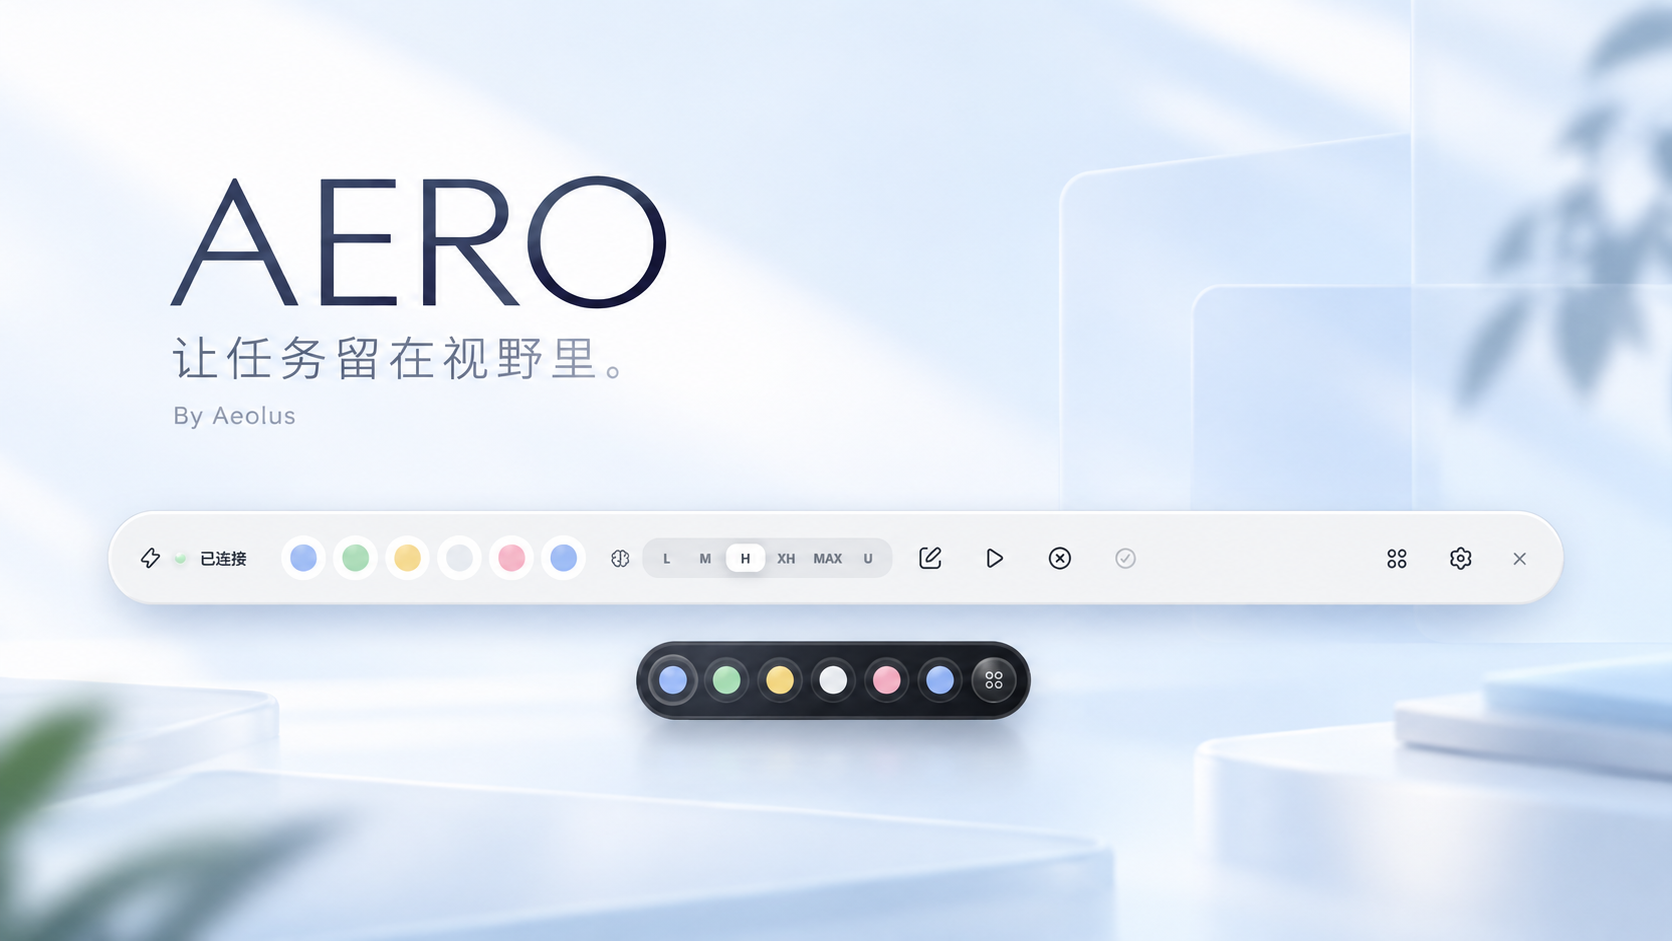
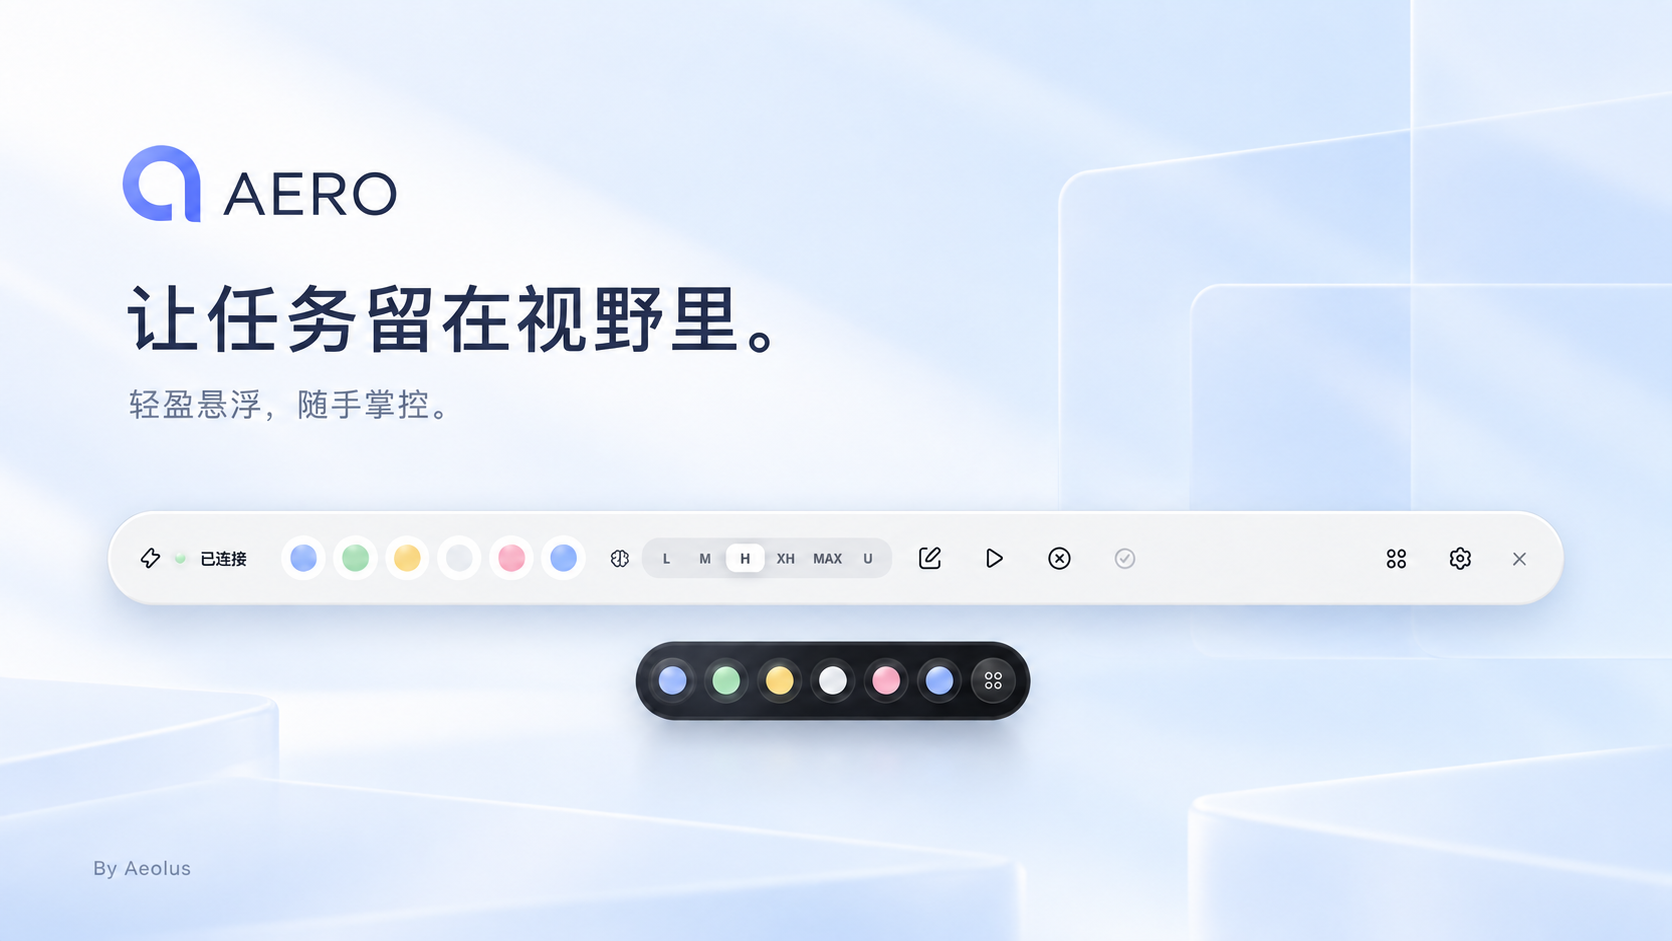
docs: unify Aero campaign identity and explain voice setup

diff --git a/docs/promo-art-direction.md b/docs/promo-art-direction.md
@@ -2,14 +2,16 @@
 
 生成方式：内置 image_gen。宣传图不是实机截图，不替代产品功能说明。图片文案与构图方向如下，供后续品牌素材延展。
 
+统一规范：三张图使用同一主视觉作为样式参考，冷白 / 冰蓝背景、深蓝正文、左上 Logo 与 AERO 字标、左下署名；标题采用一致的中等字重无衬线风格（提示词指定 Segoe UI / Microsoft YaHei UI），副标题与正文保持相同层级。生成图片是栅格视觉，不包含可核验的字体文件。Logo 沿用 `public/aero-logo.svg` 的圆环与右侧下垂笔画，不重新设计；颜色使用 Air 蓝。图像编辑时以既有托盘标志轮廓为参考，并将新版主视觉作为其他两张的统一样式参考。
+
 ## 品牌主视觉 · aero-promo-hero.png
 
-提示词：横向 16:9 AERO 软件宣传图。以真实完整栏和迷你栏为产品参考，保留六个任务灯、迷你栏第七个返回控件及现有按钮比例。冷白与淡冰蓝背景，轻盈半透明圆角卡片，宽松留白，浅阴影、弱反光，不做实体硬件或键帽。完整白栏与深色迷你栏悬浮展示。大字“AERO”，副标题“让任务留在视野里。”，署名“By Aeolus”。不要第三方商标、新功能、额外按钮或夸大承诺。
+提示词：编辑既有横向 AERO 主视觉，加入原有圆环式 Logo 与 AERO 字标；冷白与淡冰蓝背景、轻盈半透明圆角层、浅阴影、弱反光，不做实体硬件。保留六个任务灯、迷你栏第七个返回控件及现有按钮比例。标题“让任务留在视野里。”，副标题“轻盈悬浮，随手掌控。”，署名“By Aeolus”。以此图建立后续两张的字体、Logo、边距、背景和标题层级参考。
 
 ## 迷你状态栏 · aero-promo-mini.png
 
-提示词：横向 16:9 AERO 软件宣传图。以真实迷你栏为参考，严格保留蓝、绿、黄、白、粉、蓝六灯及四圆点返回按钮，共七个圆形控件，均匀居中。深石墨与午夜蓝背景，淡马卡龙色在玻璃下方发光，弱反光、浅阴影，不做霓虹或深内凹。上方“AERO”，主标题“少一点切换，多一点专注。”，副标题“六个任务灯，安静地留在视野里。”，署名“By Aeolus”。宽松留白、清晰中文排版，不添加硬件、手机或虚构控件。
+提示词：编辑既有迷你栏宣传图，匹配新版品牌主视觉的 Logo、字体风格、标题字重、边距、署名和冷白冰蓝背景。迷你栏本身保持深色，保留蓝、绿、黄、白、粉、蓝六灯及返回按钮，共七个圆形控件，均匀居中。标题“少一点切换，多一点专注。”，副标题“六个任务灯，安静地留在视野里。”。弱反光、浅阴影，不做霓虹、强地面反射或实体设备。
 
 ## 本地语音唤醒 · aero-promo-voice.png
 
-提示词：横向 16:9 AERO 离线唤醒功能宣传插画，不是新增界面。冷白、浅冰蓝与淡薄荷色，半透明圆角卡片内仅一个麦克风线形符号，细波形在留白中柔和渐隐。文字“AERO”“Hey Codex”“一句唤醒，回到对话。”“本地识别 · 离线唤醒”“唤醒监听在本地，Codex Voice 独立运行。”“By Aeolus”。浅玻璃层、弱反光、克制阴影、清晰中文。不出现云上传、无限免费语音承诺、虚构设置界面或实体设备。
+提示词：编辑既有语音宣传图，匹配新版品牌主视觉的字体风格、标题层级、Logo、边距、冷白冰蓝背景与署名。标题“一句唤醒，回到对话。”，副标题“Hey Codex · 本地离线监听”。四张圆角说明卡横向排列：“01 绑定热键 / Ctrl+Shift+V”“02 配置环境 / 语音设置 → 一键配置”“03 选择麦克风 / 选择实际输入设备”“04 开启监听 / 检查配置 → 监听开关”。卡片下方注明“触发后释放麦克风；Voice 结束后手动重新监听。”。这是配置教学插画，不是假想应用界面，不添加云上传或无限免费语音承诺。

diff --git a/README.md b/README.md
@@ -62,11 +62,24 @@ AERO 可以打开和切换任务、新建任务、继续或中断工作、调整
 
 ## “Hey Codex”，本地唤醒
 
-![AERO 本地唤醒宣传：一句唤醒，回到对话](docs/images/aero-promo-voice.png)
+![AERO 本地唤醒配置：绑定热键、配置环境、选择麦克风、开启监听](docs/images/aero-promo-voice.png)
 
 可选的离线监听使用 Vosk 和本机麦克风。识别到唤醒词后，监听器会先释放麦克风，再发送 `Ctrl+Shift+V`，将语音入口交给 Codex Desktop。
 
 ![AERO 语音设置：监听开关、唤醒词、麦克风与一键配置](docs/images/aero-voice.png)
+
+### 配置监听
+
+1. **绑定热键**：在 Codex Desktop 的快捷键设置中，将 Voice 显式绑定为 `Ctrl+Shift+V`。AERO 只检查，不替你更改。
+2. **配置环境**：打开 AERO 的「设置 → 语音」，点击「一键配置」，等待运行环境与英文模型就绪。已有环境也可手动选择 Python 可执行文件与解压后的 Vosk 模型文件夹。
+3. **选择麦克风**：选择你实际使用的输入设备，唤醒词保持 `Hey Codex`，点击「检查配置」。不要沿用他人机器的设备编号。
+4. **开启并试说**：打开「监听」开关，确认状态为「监听中」，再说出 `Hey Codex`。配置检查通过不等于真人唤醒已经成功，需实际观察 Codex Voice 是否打开。
+
+关闭悬浮窗只是隐藏到托盘，已开启的监听仍在后台运行；关闭监听开关或从托盘退出 AERO 才会停止监听。成功触发后，监听器释放麦克风并退出；Voice 结束后，在语音设置点击「重新监听」。
+
+**手动语音入口**：不想持续监听时，关闭监听开关，使用控制栏语音按钮或托盘语音菜单尝试打开 Voice 即可。
+
+无响应时，依次核对热键绑定、麦克风选择、环境与模型路径，并从语音设置打开日志。更完整的说明见 [使用指南](docs/USAGE.md#可选本地语音唤醒)。
 
 - 本地唤醒不调用 OpenAI API、不上传音频，不消耗 Codex token 或云端语音额度；启动后的 **Codex Voice 本身仍遵循 Codex 的使用规则和额度**。
 - 设置中可选择麦克风、调整唤醒词、查看运行状态与日志，并一键配置隔离的 Python 环境和英文模型。首次配置需要联网下载，之后识别在本地运行。

diff --git a/docs/USAGE.md b/docs/USAGE.md
@@ -28,9 +28,13 @@ npm.cmd start
 
 1. 在 Codex Desktop 中显式将 Voice 快捷键绑定为 `Ctrl+Shift+V`。AERO 不会替你修改它。
 2. 打开 AERO 的语音设置，通过一键配置安装运行环境和英文 Vosk 模型，或选择已有的 Python 与模型路径。首次配置需要联网。
-3. 选择麦克风，检查运行环境，再启用监听。设备编号可能随机器或系统变化，不要直接沿用其他人的编号。
+3. 选择麦克风，将唤醒词设为 `Hey Codex`，点击「检查配置」，再打开「监听」开关并确认「监听中」。设备编号可能随机器或系统变化，不要直接沿用其他人的编号。环境检查通过不代表真人唤醒已经成功。
 4. 说出 `Hey Codex`。识别成功后，监听器先释放麦克风，再发送快捷键并退出。
-5. Codex Voice 结束后，手动重新启动监听。当前没有自动恢复监听的可靠会话结束信号。
+5. Codex Voice 结束后，点击「重新监听」。当前没有自动恢复监听的可靠会话结束信号。
+
+不需要持续唤醒时，关闭监听开关，再用控制栏语音按钮或托盘语音入口发送热键即可。隐藏到托盘不会停止已开启的监听，彻底退出 AERO 才会结束它。
+
+手动配置环境时，Python 路径应指向已安装 `vosk` 和 `sounddevice` 的可执行文件，模型路径应指向解压后的英文 Vosk 模型文件夹，不是压缩包。检查失败时先核对这两项，再查看日志；不必反复开启监听或更改全局 Python 环境。
 
 本地唤醒不上传音频、不调用 OpenAI API，默认不记录原始音频或日常转写。Codex Voice 是另一个功能，仍遵循它自身的连接要求和使用额度。语音按钮只是尝试发送已检查的热键，不能保证 Desktop 已成功进入语音会话。
 
